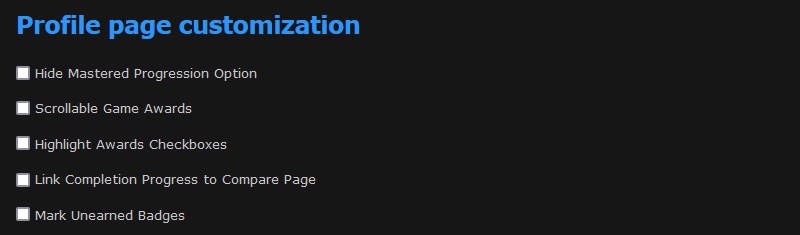
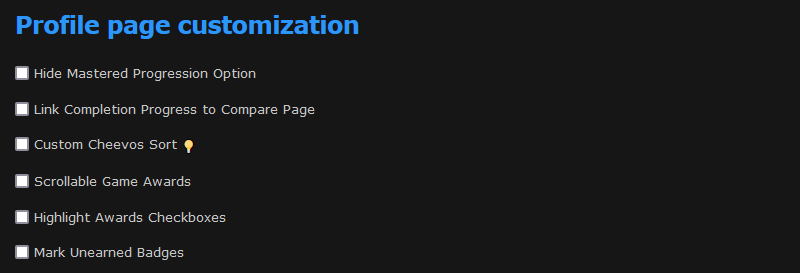
CustomizeProfile: new "Custom Cheevos Sort" feature to sort achievements in "Display order" with or without unlocks grouping + doc updated

diff --git a/RA_CustomizeProfile.user.js b/RA_CustomizeProfile.user.js
@@ -1,7 +1,7 @@
 // ==UserScript==
 // @name         RA_CustomizeProfile
 // @namespace    RA
-// @version      1.4.2
+// @version      1.5
 // @description  Provides a set of options to customize the profile pages
 // @author       Mindhral
 // @homepage     https://github.com/Mindhral/RA_userscripts
@@ -12,6 +12,7 @@
 // @icon         https://static.retroachievements.org/assets/images/favicon.webp
 // @grant        GM_setValue
 // @grant        GM_getValue
+// @grant        GM_deleteValue
 // ==/UserScript==
 
 // authenticated user
@@ -64,6 +65,52 @@ function basicSettingsPage(chekboxId, settingsKey, settings) {
     }
 }
 
+const APIKey = (() => {
+    let key;
+    const needingFeatures = new Set();
+
+    const get = () => {
+        if (!key) key = GM_getValue('APIKey', null);
+        return key;
+    };
+
+    const neededFor = feature => {
+        if (needingFeatures.size == 0) {
+            key = JSON.parse(document.getElementById('app').dataset.page).props.userSettings.apiKey;
+            GM_setValue('APIKey', key);
+        }
+        needingFeatures.add(feature);
+    };
+
+    const notNeededFor = feature => {
+        if (needingFeatures.delete(feature) && needingFeatures.size == 0) {
+            GM_deleteValue('APIKey');
+        }
+    }
+
+    return { get, neededFor: (feature, needed) => needed ? neededFor(feature) : notNeededFor(feature) };
+})();
+
+const withGameExtended = (() => {
+    const data = {};
+
+    return (gameId, callback) => {
+        if (data[gameId]) {
+            callback(data[gameId]);
+            return;
+        }
+        const flag = (new URLSearchParams(window.location.search).get('f') == 5) ? 5 : 3
+        fetch(`https://retroachievements.org/API/API_GetGameExtended.php?i=${gameId}&f=${flag}&z=${getCurrentUser()}&y=${APIKey.get()}`)
+        .then(response => response.json())
+        .then(json => {
+            data[gameId] = json;
+            callback(json);
+        }).catch(error => {
+            console.log(error);
+        });
+    };
+})();
+
 const settingsHtml = `<div class="text-card-foreground rounded-lg border border-embed-highlight bg-embed shadow-sm w-full">
   <div class="flex flex-col space-y-1.5 p-6 pb-4">
     <h4 class="mb-0 border-b-0 text-2xl font-semibold leading-none tracking-tight">Profile page customization</h4>
@@ -71,12 +118,14 @@ const settingsHtml = `<div class="text-card-foreground rounded-lg border border-
   <form><div class="p-6 pt-0">
   <table><tbody class="[&>tr>td]:!px-0 [&>tr>td]:py-2 [&>tr>th]:!px-0 [&>tr]:!bg-embed">
     <tr><th colspan="2"><label><input id="hideMasterProgrActive" type="checkbox"> Hide Mastered Progression Option</label></th></tr>
+    <tr><th colspan="2"><label><input id="progressLinkActive" type="checkbox"> Link Completion Progress to Compare Page</label></th></tr>
+    <tr><th colspan="2"><label><input id="customCheevosSortActive" type="checkbox"> Custom Cheevos Sort <span class="icon" title="Needs to store your API Key in the script local storage" style="cursor: help;">💡</span></label></th></tr>
+    <tr><td>Separate unlocks for display order</td><td><select id="cheevosSortGrouping" /></td></tr>
     <tr><th colspan="2"><label><input id="scrollAwardsActive" type="checkbox"> Scrollable Game Awards</label></th></tr>
     <tr><td>Minimum number of games for showing the scroll bar</td><td><input id="scrollAwardsMinGames" type="number" style="width: 7em;"></td></tr>
     <tr><td>Maximum height of the section with the scroll bar</td><td><input id="scrollAwardsMaxHeight" type="number" min="10" style="width: 7em;"><span title="em: font-size of the element" style="cursor: help;"> em</span></td></tr>
     <tr><td>Thin scrollbar</td><td><input id="scrollAwardsThinBar" type="checkbox"></td></tr>
     <tr><th colspan="2"><label><input id="highlightAwardsActive" type="checkbox"> Highlight Awards Checkboxes</label></th></tr>
-    <tr><th colspan="2"><label><input id="progressLinkActive" type="checkbox"> Link Completion Progress to Compare Page</label></th></tr>
   </tbody></table>
   <table><tbody class="[&>tr>td]:!px-0 [&>tr>td]:py-2 [&>tr>th]:!px-0 [&>tr]:!bg-embed">
     <tr><th colspan="2"><label><input id="markUnearnedActive" type="checkbox"> Mark Unearned Badges</label></th></tr>
@@ -439,12 +488,121 @@ const LinkHighScore2Compare = (() => {
     return { profilePage, settingsPage };
 })();
 
+const CustomCheevosSort = (() => {
+    const SortGroupings = {
+        unlocks: {
+            label: 'one group',
+            getRowValue: r => r.unlocked ? 0 : 1
+        },
+        hardcore: {
+            label: 'hardcore only',
+            getRowValue: r => r.hcUnlocked ? 0 : 1
+        },
+        hcSc: {
+            label: 'hardcore, softcore',
+            getRowValue: r => r.hcUnlocked ? 0 : r.unlocked ? 1 : 2
+        },
+        none: {
+            label: 'none',
+            getRowValue: r => 0
+        }
+    };
+
+    const Compares = {
+        fromValue: f => (a, b) => f(a) - f(b),
+        compose: (c1, c2) => (a, b) => {
+            const res1 = c1(a, b);
+            return res1 == 0 ? c2(a, b) : res1;
+        }
+    };
+
+    const DefaultSettings = {
+        active: false,
+        sortGroup: 'none'
+    };
+
+    const Settings = loadSettings('customCheevosSort', DefaultSettings);
+
+    function saveSettings() {
+        GM_setValue('customCheevosSort', Settings);
+    }
+
+    function settingsPage() {
+        const activeCheckbox = document.getElementById('customCheevosSortActive');
+        activeCheckbox.checked = Settings.active;
+        const groupSelect = document.getElementById('cheevosSortGrouping');
+        for (const [sortName, sort] of Object.entries(SortGroupings)) {
+            const option = newElement('option', groupSelect, null, sort.label);
+            option.value = sortName;
+            option.setAttribute('name', sortName);
+        }
+        groupSelect.namedItem(Settings.sortGroup).selected = true;
+
+        activeCheckbox.addEventListener('change', () => {
+            Settings.active = activeCheckbox.checked;
+            setRowVisibility(groupSelect, Settings.active);
+            saveSettings();
+            APIKey.neededFor('customCheevosSort', Settings.active);
+        });
+        activeCheckbox.dispatchEvent(new Event('change'));
+        groupSelect.addEventListener('change', () => {
+            Settings.sortGroup = groupSelect.selectedOptions[0].value;
+            saveSettings();
+        });
+    }
+
+    function profilePage() {
+        if (!Settings.active) return;
+
+        const originalCompare = Compares.fromValue(c => c.index);
+        const displayCompare = Compares.compose(Compares.fromValue(c => c.displayOrder), Compares.fromValue(c => c.id));
+        const customCompare = Compares.compose(Compares.fromValue(SortGroupings[Settings.sortGroup].getRowValue), displayCompare);
+
+        const badgeContainers = document.querySelectorAll('div.transition-all > hr + div');
+        badgeContainers.forEach(container => {
+            const newDiv = document.createElement('div');
+            container.before(newDiv);
+            newDiv.outerHTML = '<div title="Use dev display order" class="btn" style="font-size: 1em;padding: .2em .2em;position: absolute;top: 1em;right: -2px;">⬆⬇</div>';
+            const sortBtn = container.previousElementSibling;
+
+            const gameDiv = container.parentElement.parentElement;
+            const gameId = gameDiv.querySelector('a').href.split('/').at(-1);
+            let cheevosList;
+            let isOriginalSort = true;
+
+            const switchSort = () => {
+                if (!cheevosList) {
+                    withGameExtended(gameId, data => {
+                        cheevosList = [...container.children].map((span, index) => {
+                            const cheevosId = span.querySelector('a').href.split('/').at(-1);
+                            const img = span.querySelector('img');
+                            const unlocked = !img.src.endsWith('_lock.png');
+                            const hcUnlocked = img.classList.contains('goldimage');
+                            return { element: span, id: cheevosId, index, displayOrder: data.Achievements[cheevosId].DisplayOrder, unlocked, hcUnlocked };
+                        });
+                        switchSort();
+                    });
+                    return;
+                }
+                isOriginalSort = !isOriginalSort;
+                const compare = isOriginalSort ? originalCompare : customCompare;
+                cheevosList.sort(compare);
+                cheevosList.map(r => r.element).forEach(e => container.append(e));
+            };
+            sortBtn.addEventListener('click', switchSort);
+        });
+    }
+
+    return { profilePage, settingsPage };
+})();
+
 function profilePage() {
     ScrollAwards.profilePage();
     HideMasteredProgress.profilePage();
     MarkUnearnedAwards.profilePage();
     HighlightAwards.profilePage();
     LinkHighScore2Compare.profilePage();
+    CustomCheevosSort.profilePage();
 }
 
 function settingsPage() {
@@ -464,6 +622,7 @@ function settingsPage() {
     MarkUnearnedAwards.settingsPage();
     HighlightAwards.settingsPage();
     LinkHighScore2Compare.settingsPage();
+    CustomCheevosSort.settingsPage();
 }
 
 const urlPathname = window.location.pathname;

diff --git a/README.md b/README.md
@@ -31,6 +31,32 @@ It's possible to filter completed sets in the *Completion Progress* section on p
 
 ![none](/assets/HideMasteredSets_none.png) ![mastered](/assets/HideMasteredSets_mastered.png) ![completed](/assets/HideMasteredSets_completed.png)
 
+### Link Completion Progress to Compare Page
+
+Adds links to *Compare Unlocks* page on the progress bars from the *Completion Progress* section.
+
+![completion progress links](/assets/CustomizeProfile_progressLinks.png)
+
+### Custom Cheevos Sort
+
+Adds a button above the achievements list of each game in *Last X Games Played* section to switch the sorting of these achievements.
+
+![custom cheevos sort - original order](/assets/CustomizeProfile_cheeevosSort_original.png)
+
+The new sorting can be parameterized in the Settings page.
+
+![custom cheevos sort - settings](/assets/CustomizeProfile_cheeevosSort_settings.png)
+
+The only sorting currently possible is to use the "natural" order as defined by the set developer(s).
+
+> [!WARNING]
+> This requires a web API call (which is done once per game at most, when you click on its sort button for the first time after the page load).
+> See [this note](#api-warning) for more details.
+
+![custom cheevos sort - display order](/assets/CustomizeProfile_cheeevosSort_displayOrder.png)
+
+The only option is to choose whether or not to separate the unlocked achievements and how. The available values are exactly the same as for the *unlock grouping* feature from [Enhanced Sort Options](#enhanced-sort-options) (except for the *Last* checkbox, absent here).
+
 ### Scrollable Game Awards
 
 If the number of badges in the *Game Awards* section of profile page exceeds a certain number, this feature adds a scroll bar to that section.
@@ -51,12 +77,6 @@ Adds checkboxes in the *Game Awards* section of other users profile page to high
 This feature doesn't differentiate between mastery and completion badges.
 
 ![Highlight Awards - all](/assets/HighlightAwards_all.png) ![Highlight Awards - common](/assets/HighlightAwards_common.png) ![Highlight Awards - others](/assets/HighlightAwards_others.png)
-
-### Link Completion Progress to Compare Page
-
-Adds links to *Compare Unlocks* page on the progress bars from the *Completion Progress* section.
-
-![completion progress links](/assets/CustomizeProfile_progressLinks.png)
 
 ### Mark Unearned Badges
 
